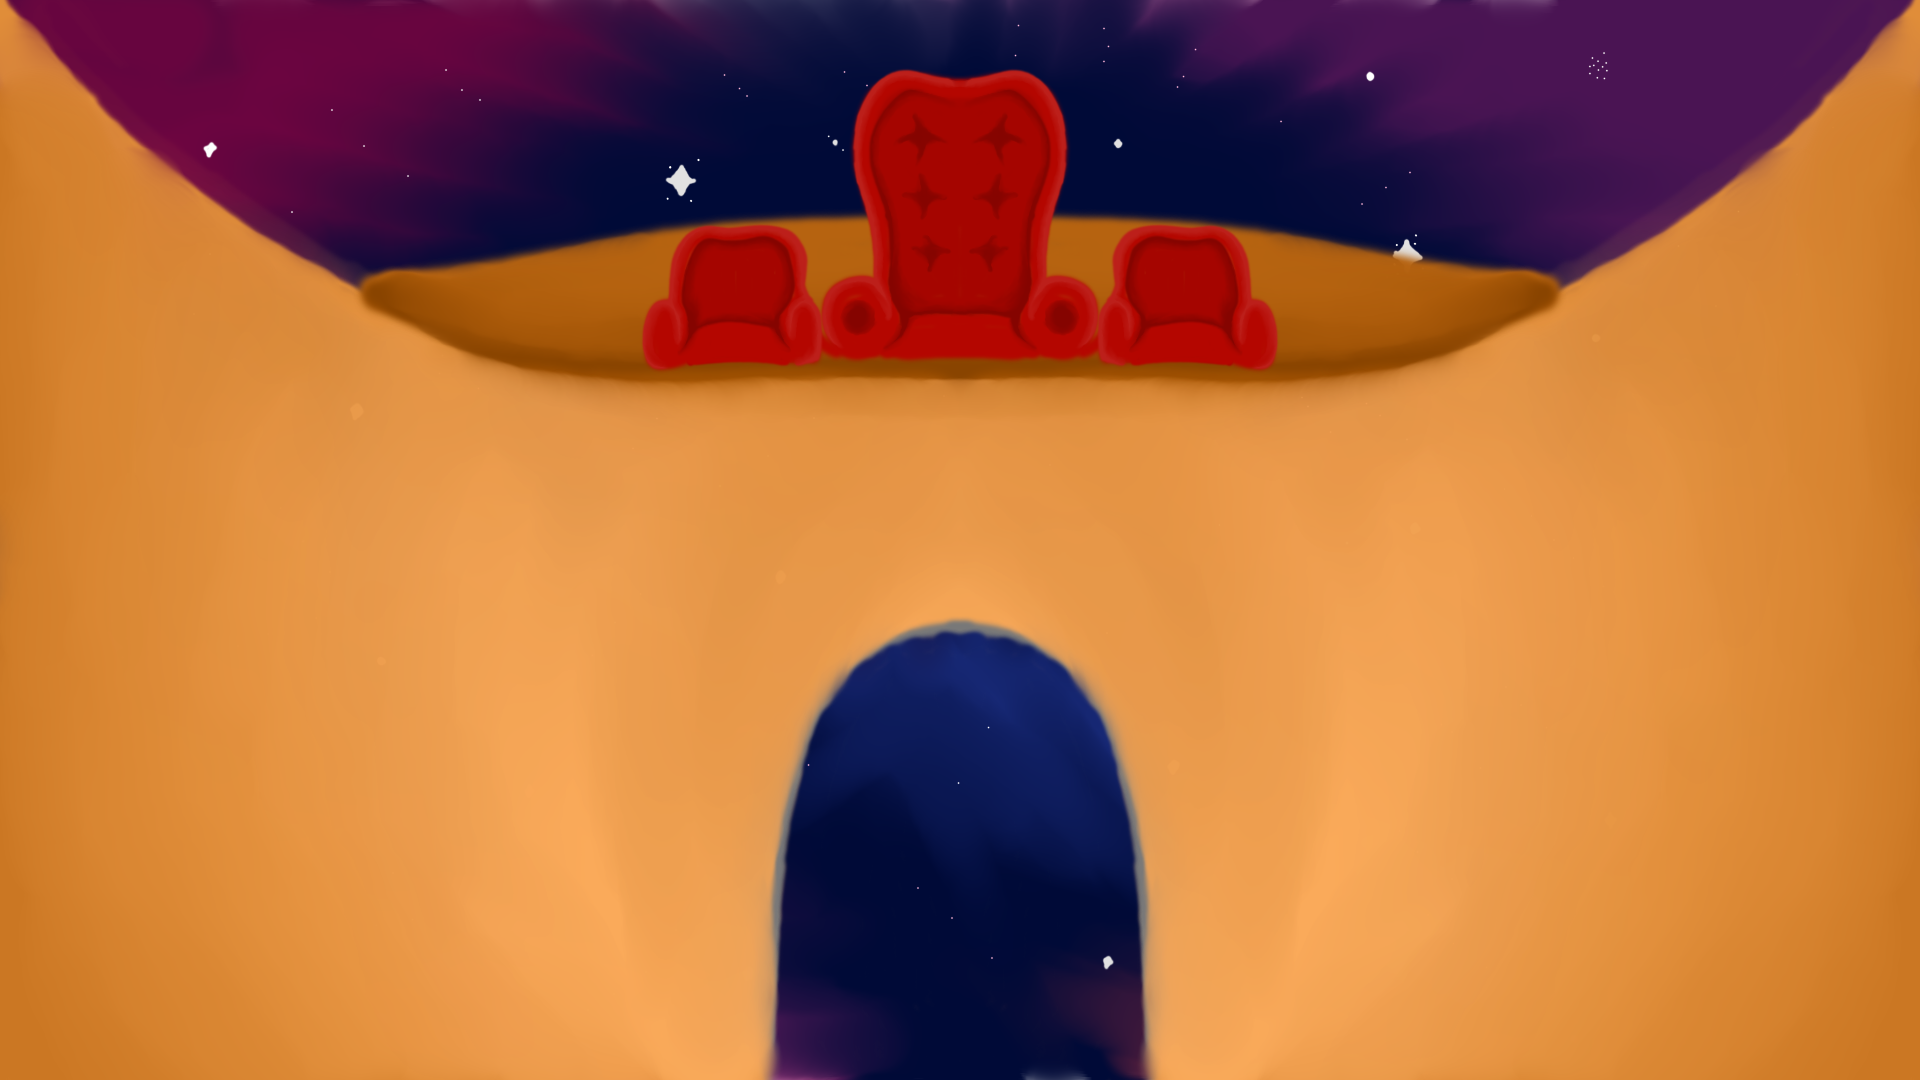
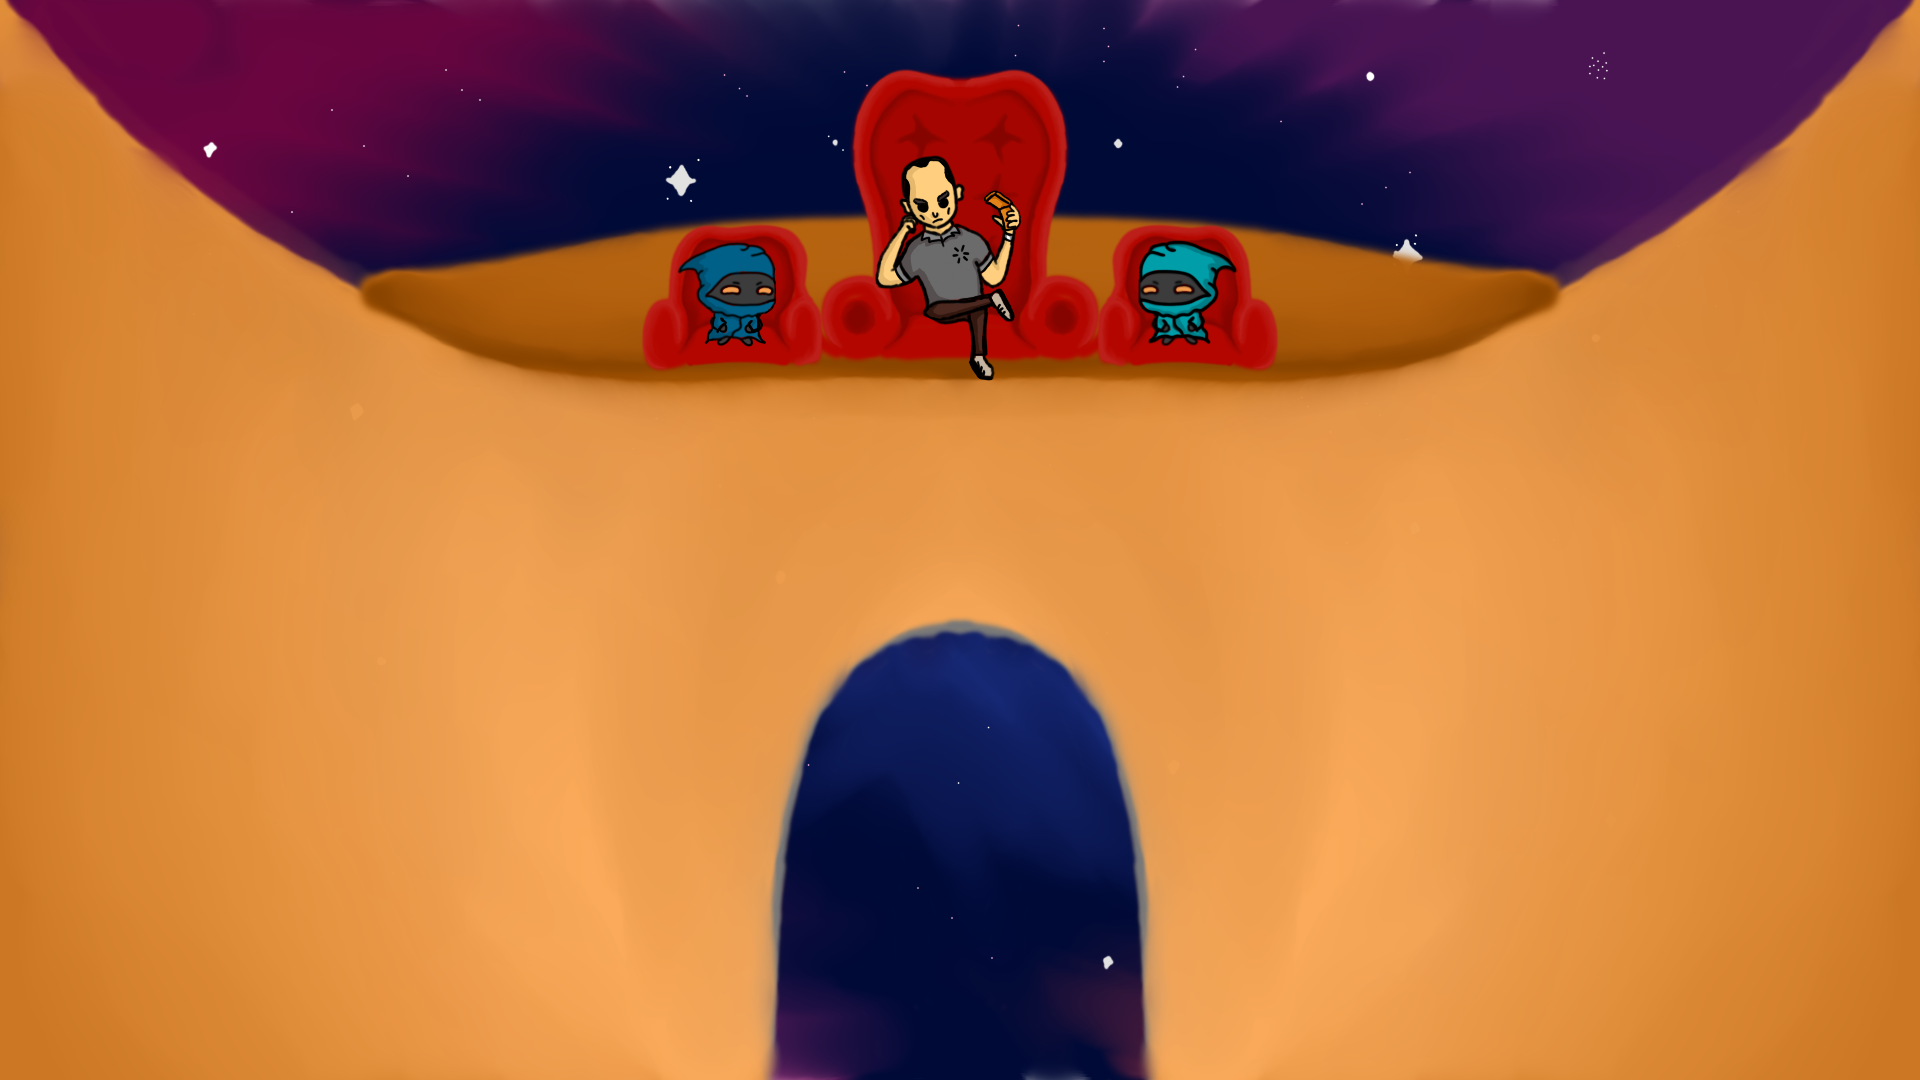
hitbox cambio de background y demas cosas

Changed region(s): [[0.4375, 0.1222, 0.5312, 0.3667], [0.5938, 0.2139, 0.6562, 0.3361], [0.3438, 0.2139, 0.4062, 0.3361]]

diff --git a/src/scenes/Vs.js b/src/scenes/Vs.js
@@ -63,11 +63,15 @@ export class Vs extends Scene {
         this.player1.setCollideWorldBounds(true);
         this.player1.setGravityY(300);
         this.player1.number = "1";
+        this.player1.setSize(190, 200); 
+        this.player1.setOffset(10, 10);
 
         this.player2 = this.physics.add.sprite(1440, 1000, this.player2texture).setScale(0.7);
         this.player2.setCollideWorldBounds(true);
         this.player2.setGravityY(300);
         this.player2.number = "2";
+        this.player2.setSize(190, 200); 
+        this.player2.setOffset(10, 10);
 
         this.physics.add.collider(this.player1, this.ground);
         this.physics.add.collider(this.player2, this.ground);        
@@ -177,11 +181,11 @@ export class Vs extends Scene {
             fontFamily: 'Arial', fontSize: 38, color: '#ffffff', align: 'center'
         }).setOrigin(0.5);
 
-        this.player1ScoreText = this.add.text(620, 50, getPhrase('Jugador 1 :'),{
+        this.player1ScoreText = this.add.text(620, 50, getPhrase('Jugador 1:'),{
             fontFamily: 'Arial', fontSize: 38, color: '#ffffff', align: 'center'
         }).setOrigin(0.5);
 
-        this.player2ScoreText = this.add.text(1300, 50, getPhrase('Jugador 2 :'),{
+        this.player2ScoreText = this.add.text(1300, 50, getPhrase('Jugador 2:'),{
             fontFamily: 'Arial', fontSize: 38, color: '#ffffff', align: 'center'
         }).setOrigin(0.5);
 
@@ -260,11 +264,11 @@ export class Vs extends Scene {
             const damage = Phaser.Math.Between(5, 15); 
             if (attacker.number === this.player1.number && this.player1CanAttack) {
                 this.player1Score += damage;
-                this.player1ScoreText.setText(getPhrase(`Jugador 1: ${this.player1Score}`));
+                this.player1ScoreText.setText(getPhrase('Jugador 1:') + ' ' + this.player1Score);
                 this.player1CanAttack = false;  
             } else if (attacker.number === this.player2.number && this.player2CanAttack) {
                 this.player2Score += damage;
-                this.player2ScoreText.setText(getPhrase(`Jugador 2: ${this.player2Score}`));
+                this.player2ScoreText.setText(getPhrase('Jugador 2:') + ' ' + this.player2Score);
                 this.player2CanAttack = false;  
             }
             defender.setTint(0xff0000); 
@@ -290,7 +294,7 @@ export class Vs extends Scene {
     
                     object.play('explode');
                     this.player1Score -= randombob;
-                    this.player1ScoreText.setText(getPhrase(`Jugador 1: ${this.player1Score}`));
+                    this.player1ScoreText.setText(getPhrase('Jugador 1:') + ' ' + this.player1Score);
     
                     object.on('animationcomplete', () => {
                         object.destroy();
@@ -304,7 +308,7 @@ export class Vs extends Scene {
     
                     object.play('explode');
                     this.player2Score -= randombob;
-                    this.player2ScoreText.setText(getPhrase(`Jugador 2: ${this.player2Score}`));
+                    this.player2ScoreText.setText(getPhrase('Jugador 2:') + ' ' + this.player2Score);
     
                     object.on('animationcomplete', () => {
                         object.destroy();
@@ -322,7 +326,7 @@ export class Vs extends Scene {
                     object.hasCollided = true;
     
                     this.player1Score += randomPoints;
-                    this.player1ScoreText.setText(getPhrase(`Jugador 1: ${this.player1Score}`));
+                    this.player1ScoreText.setText(getPhrase('Jugador 1:') + ' ' + this.player1Score);
     
                     object.destroy();
                 }
@@ -333,7 +337,7 @@ export class Vs extends Scene {
                     object.hasCollided = true;
     
                     this.player2Score += randomPoints;
-                    this.player2ScoreText.setText(getPhrase(`Jugador 2: ${this.player2Score}`));
+                    this.player2ScoreText.setText(getPhrase('Jugador 2:') + ' ' + this.player2Score);
     
                     object.destroy();
                 }
@@ -382,4 +386,3 @@ export class Vs extends Scene {
         this.physics.add.collider(object, this.ground);
     }
 }   
- 

diff --git a/src/scenes/Coop.js b/src/scenes/Coop.js
@@ -68,13 +68,13 @@ export class Coop extends Scene {
         });
         
         this.add.image(960, 540, 'fondocoop');
-        this.devil = this.add.image(512, 100, 'devil').setScale(0.36);
+        this.devil = this.physics.add.image(512, 100, 'devil').setScale(0.36);
 
-        this.scoreText = this.add.text(1780, 50, getPhrase('Puntaje: '),{
+        this.scoreText = this.add.text(1780, 50, getPhrase('Puntaje:'),{
             fontFamily: 'Arial', fontSize: 38, color: '#ffffff', align: 'center'
         }).setOrigin(0.5);
 
-        this.livesText = this.add.text(100, 50, getPhrase(`Vidas: ${this.sharedLives}`), {
+        this.livesText = this.add.text(100, 50, (getPhrase('Vidas:') + ' ' + this.sharedLives), {
             fontFamily: 'Arial', fontSize: 38, color: '#ffffff', align: 'center'
         }).setOrigin(0.5);
 
@@ -100,11 +100,15 @@ export class Coop extends Scene {
         this.player1.setCollideWorldBounds(true);
         this.player1.setGravityY(300);
         this.player1.number = "1";
+        this.player1.setSize(190, 206); 
+        this.player1.setOffset(20, 10);
 
-        this.player2 = this.physics.add.sprite(1440, 1000, this.player2texture).setScale(0.7);
+        this.player2 = this.physics.add.sprite(1440, 1000, this.player2texture).setScale(0.7).setSize(180, 190);
         this.player2.setCollideWorldBounds(true);
         this.player2.setGravityY(300);
         this.player2.number = "2";
+        this.player2.setSize(290, 200); 
+        this.player2.setOffset(10, 10);
 
         this.physics.add.collider(this.player1, this.ground);
         this.physics.add.collider(this.player2, this.ground);        
@@ -278,7 +282,7 @@ export class Coop extends Scene {
     
                     object.play('explode');
                     this.sharedScore -= randombob;
-                    this.scoreText.setText(getPhrase(`Puntaje: ${this.sharedScore}`));
+                    this.scoreText.setText(getPhrase('Puntaje:') + ' ' + this.sharedScore);
     
                     object.on('animationcomplete', () => {
                         object.destroy();
@@ -292,7 +296,7 @@ export class Coop extends Scene {
     
                     object.play('explode');
                     this.sharedScore -= randombob;
-                    this.scoreText.setText(getPhrase(`Puntaje: ${this.sharedScore}`));
+                    this.scoreText.setText((getPhrase('Puntaje:') + ' ' + this.sharedScore));
     
                     object.on('animationcomplete', () => {
                         object.destroy();
@@ -313,7 +317,7 @@ export class Coop extends Scene {
     
                     if (this.sharedLives < 3) {
                         this.sharedLives ++;
-                        this.livesText.setText(getPhrase(`Vidas: ${this.sharedLives}`));
+                        this.livesText.setText(getPhrase('Vidas:') + ' ' + this.sharedLives);
                     }
                     object.destroy();
                 }
@@ -324,7 +328,7 @@ export class Coop extends Scene {
                     object.hasCollided = true;
     
                     this.sharedLives ++;
-                    this.livesText.setText(getPhrase(`Vidas: ${this.sharedLives}`));
+                    this.livesText.setText(getPhrase('Vidas:') + ' ' + this.sharedLives);
     
                     object.destroy();
                 }
@@ -441,7 +445,7 @@ export class Coop extends Scene {
             const scoreIncrement = Phaser.Math.Between(5, 20);
             this.sharedScore += scoreIncrement;
             this.jawasKilled++;
-            this.scoreText.setText(getPhrase('Puntaje : ') + this.sharedScore);
+            this.scoreText.setText(getPhrase('Puntaje:') + ' ' + this.sharedScore);
         });
     
         this.physics.add.collider(bullet, this.ground, () => {
@@ -486,7 +490,7 @@ export class Coop extends Scene {
 
         this.sharedLives--;
 
-        this.livesText.setText(getPhrase(`Vidas: ${this.sharedLives}`));
+        this.livesText.setText(getPhrase('Vidas:') + ' ' + this.sharedLives);
 
         console.log(`sharedLives: ${this.sharedLives}, sharedScore: ${this.sharedScore}, jawasKilled: ${this.jawasKilled}`);
 

diff --git a/src/scenes/GameOver.js b/src/scenes/GameOver.js
@@ -14,13 +14,13 @@ export class GameOver extends Scene {
     create() {
         this.add.image(960, 540, 'fondomenu');
 
-        this.add.text(480, 440, getPhrase(`Puntos jugador 1: ${this.player1Score}`), {
+        this.add.text(480, 440, (getPhrase('Puntos jugador 1:') + ' ' + this.player1Score), {
             fontFamily: 'Arial Black', fontSize: 38, color: '#ffffff',
             stroke: '#000000', strokeThickness: 8,
             align: 'center'
         }).setOrigin(0.5);
 
-        this.add.text(1440, 440, getPhrase(`Puntos jugador 2: ${this.player2Score}`), {
+        this.add.text(1440, 440, (getPhrase('Puntos jugador 2:') + ' ' + this.player2Score), {
             fontFamily: 'Arial Black', fontSize: 38, color: '#ffffff',
             stroke: '#000000', strokeThickness: 8,
             align: 'center'

diff --git a/src/scenes/GameOver2.js b/src/scenes/GameOver2.js
@@ -14,12 +14,12 @@ export class GameOver2 extends Scene {
     create() {
         this.add.image(960, 540, 'fondomenu');
 
-        this.add.text(960, 400, getPhrase(`Puntaje: ${this.sharedScore}`), {
+        this.add.text(960, 400, (getPhrase('Puntaje:') + ' ' + this.sharedScore), {
             fontFamily: 'Arial Black', fontSize: 38, color: '#ffffff', 
             stroke: '#000000', strokeThickness: 8, align: 'center'
         }).setOrigin(0.5);
 
-        this.add.text(960, 600, getPhrase(`Jawas Eliminados: ${this.jawasKilled}`), {
+        this.add.text(960, 600, (getPhrase('Jawas Eliminados:') + ' ' + this.jawasKilled), { 
             fontFamily: 'Arial Black', fontSize: 38, color: '#ffffff', 
             stroke: '#000000', strokeThickness: 8, align: 'center'
         }).setOrigin(0.5);

diff --git a/src/main.js b/src/main.js
@@ -28,7 +28,8 @@ const config = {
         default: "arcade",
         arcade: {
           gravity: { y: 0 },
-          debug: false,
+          debug: true,
+
         },
     },
     scene: [
